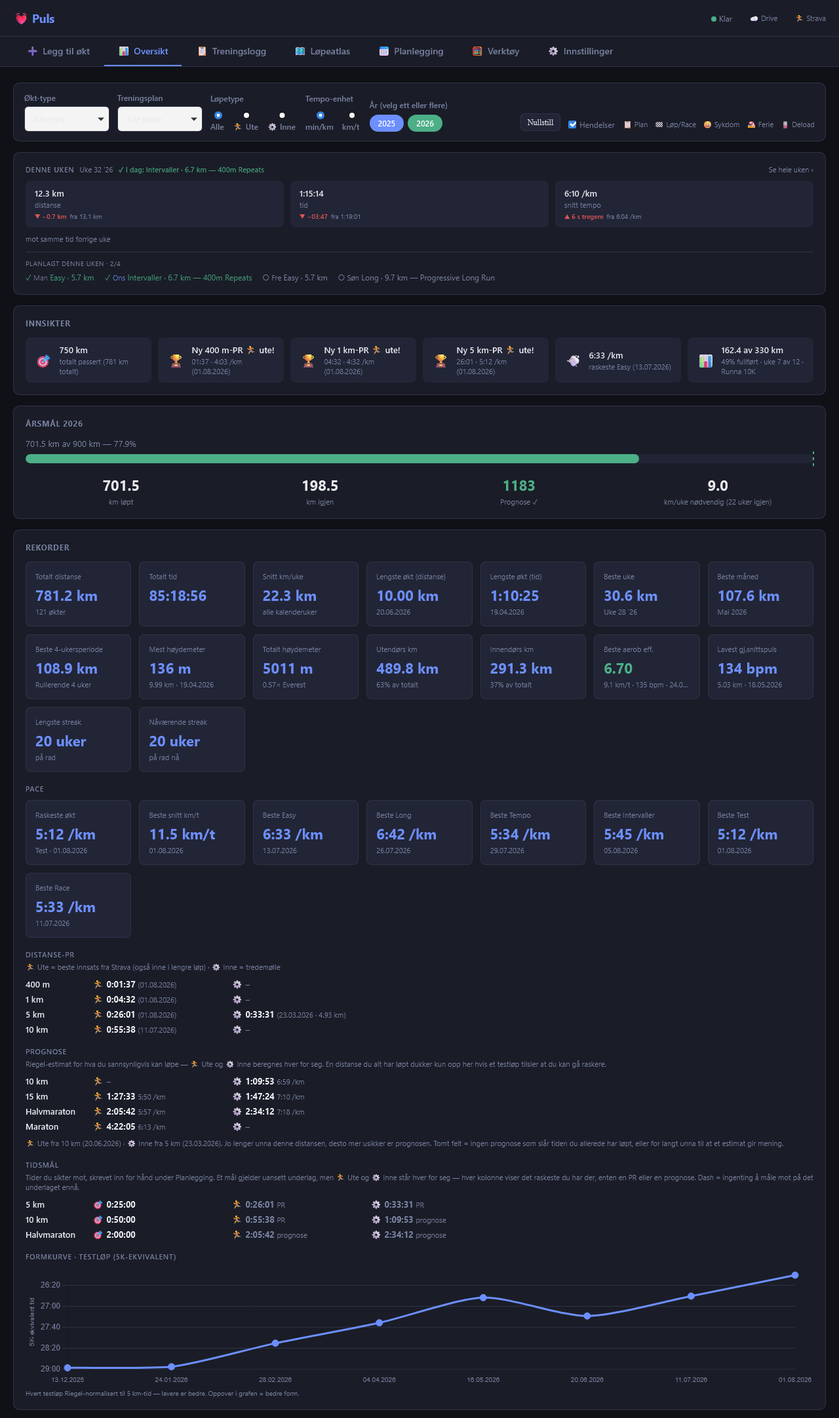
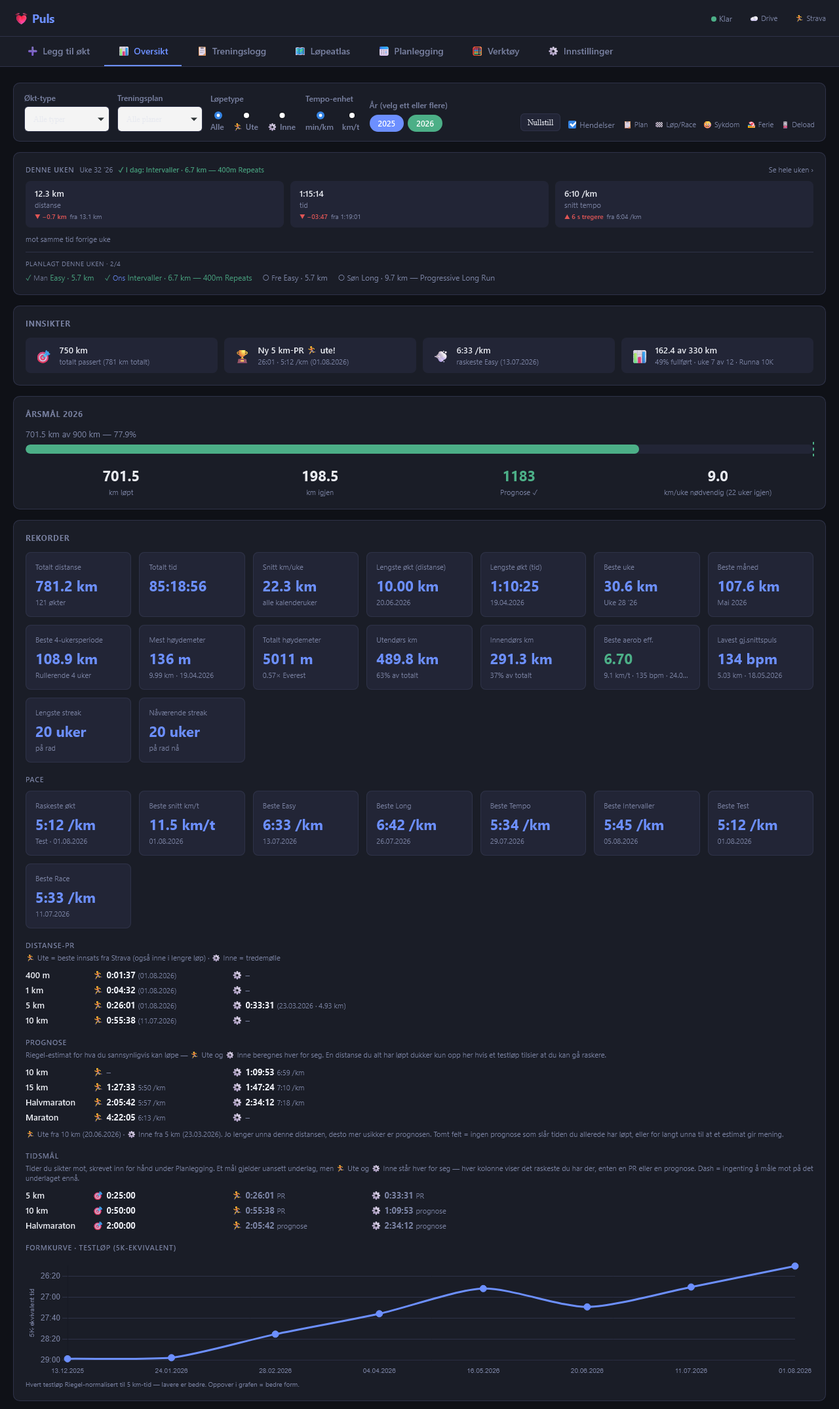
One 5K test set three PRs and took half the Innsikter card
Three fixes to what Innsikter and Treningsblokker surface, all found from
real use on the dashboard.

The PR insight is floored at 5 km. 400 m and 1 km are stretches the
analyser extracts from INSIDE a longer run, not efforts you set out to
make: the 27:03 5K on 11.09 set three PRs at once, each taking its own
priority-5 slot, so one session held half a six-slot card and displaced
everything below it — invisibly, because a crowded card looks exactly
like a quiet week. Both distances keep their permanent place in
Rekorder's Distanse-PR table. Same distinction the app already draws at
km >= 1 for goals and prognoses, raised to where a PR means a race you
could enter.

A block about to start now counts down over its last 14 days, mirroring
the race countdown. It retires by construction rather than by a
daysUntil === 0 branch: once started the block is `current`, so the
plan-progress card takes over. That is deliberate — a "today" surface
that never notices the day arrived is the bug the race card had until
this morning.

The Kommende block card is clickable. Treningsblokker says "Klikk for
detaljer" and of its three row types only the hero and the past cards
honoured it, so the sole route to a not-yet-started block's plan was
Planlegging -> Planlagte økter -> Andre blokker. openBlock already
handled a future block correctly (6d186d3); nothing was wired to it.

Also: cachedBlocks is now computed BEFORE renderInsights, not after. The
[…]

diff --git a/puls.html b/puls.html
@@ -7283,6 +7283,28 @@ function renderInsights(sessions) {
     }
   }
 
+  // A training block about to start. Kept next to the race countdown because it is the same shape,
+  // and it retires the same way BY CONSTRUCTION rather than by a special case: the moment
+  // `startDate <= today` the block stops matching this filter and becomes `current`, so the
+  // plan-progress card below takes over. That is deliberately not a `daysUntil === 0` branch —
+  // a "today" surface that never notices the day has arrived is the exact bug we fixed in the race
+  // card today, and the way not to write it again is to have no such branch to get wrong.
+  //
+  // 14 days, not the race's 30: a block three weeks out is trivia, and the Treningsblokker card
+  // already carries it from any distance. Priority 4, not 5 — a block starting is a heads-up, not
+  // a deadline, and it must not outrank a race or a fresh PR competing for the same six slots.
+  const nextBlock = cachedBlocks.filter(b => b.startDate > today)
+    .sort((a, b) => a.startDate.localeCompare(b.startDate))[0];
+  if (nextBlock) {
+    const daysToBlock = Math.round((new Date(nextBlock.startDate) - new Date(today)) / 86400000);
+    if (daysToBlock <= 14) {
+      const blockTarget = nextBlock.targetTotalKm ? ` · mål ${nextBlock.targetTotalKm} km` : '';
+      candidates.push({ icon: '🗓', val: `${daysToBlock} ${daysToBlock === 1 ? 'dag' : 'dager'}`,
+        sub: `til ${nextBlock.title} starter (${fmtDate(nextBlock.startDate)}) · ${nextBlock.weeks} uker${blockTarget}`,
+        priority: 4 });
+    }
+  }
+
   // Streak at risk: streak ≥3 weeks alive, but no run yet this week and the week is almost over.
   // currentStreak in computeRecords reads 0 for a runless current week, so count from LAST week here.
   // Suppressed during a registered Syk/Ferie week: Treningsrytme bridges that week (the streak isn't
@@ -7335,8 +7357,26 @@ function renderInsights(sessions) {
   // the venue — Ute (GPS) and Inne (belt) are separate populations (DATA.md "Belt vs GPS").
   // Every source is dated now, so the `!e.d` guard below is belt-and-braces rather than the
   // load-bearing filter it was when hand-typed (dateless) entries could reach here.
+  //
+  // ⚠ Floored at 5 km, and the floor is the point. 400 m and 1 km are SEGMENTS the analyser
+  // extracts from inside a longer run, not efforts you set out to make: his 27:03 5K on 11.09 set
+  // three PRs at once (400 m, 1 km, 5 km inne), each taking its own priority-5 slot. One piece of
+  // news held half the card and displaced everything at priority 4 and below — and the card gives
+  // no sign that happened, so a crowded week is indistinguishable from a quiet one.
+  //
+  // Both distances keep their place in Rekorder's Distanse-PR table, which is where a permanent
+  // record belongs; Innsikter is for what is news. Same distinction the app already draws twice at
+  // `km >= 1` (Settings.goalDists, computePerfCurve) — *"400 m is a segment inside a longer run,
+  // not something you train six months toward"* — raised to where a PR means a race you could
+  // actually enter. The cost, accepted: a deliberate 1 km time trial passes unannounced here.
+  //
+  // ⚠ This floor is NOT the same constant as those two and must not be collapsed into them: they
+  // gate what you can set a GOAL for, this gates what is worth a headline. They happen to be
+  // mirrored by hand today, and the register already warns nothing enforces that.
+  const INSIGHT_PR_MIN_KM = 5;
   const fortnightAgo = localISODaysAgo(14);
   computeDistancePRs(qualitySessions).forEach(r => {
+    if (r.km < INSIGHT_PR_MIN_KM) return;
     [['🏃 ute', r.ute], ['⚙ inne', r.inne]].forEach(([venue, e]) => {
       if (!e || !e.d || e.d < fortnightAgo) return;
       candidates.push({ icon: '🏆', val: `Ny ${r.label}-PR ${venue}!`,
@@ -7678,7 +7718,15 @@ function renderBlocks() {
     upcomingHtml = upcoming.map(b => {
       const daysUntil = Math.round((new Date(b.startDate) - new Date(today)) / 86400000);
       const startsIn = daysUntil === 1 ? 'starter i morgen' : `starter om ${daysUntil} dager`;
-      return `<div style="background:var(--surface2);border:1px dashed var(--border);border-radius:10px;padding:14px 20px;margin-bottom:16px">
+      // Clickable like the hero and past cards. It was the one row of the three that wasn't, under a
+      // subtitle that says "Klikk for detaljer" — so the card promised something it only kept twice
+      // out of three times, and the only way to a not-yet-started block's plan was Planlegging →
+      // Planlagte økter → Andre blokker. `DetailPanel.openBlock` already handles a future block
+      // correctly (6d186d3 taught it to suppress the stats row, Konsistens and Sonefordeling); the
+      // panel was ready and nothing had been wired to it from here.
+      const safeBlock = toSafeAttr(b);
+      return `<div style="background:var(--surface2);border:1px dashed var(--border);border-radius:10px;padding:14px 20px;margin-bottom:16px;cursor:pointer"
+           onclick="DetailPanel.openBlock(JSON.parse(this.dataset.block))" data-block="${safeBlock}">
         <div style="display:flex;align-items:center;gap:8px">
           <span style="font-size:14px;font-weight:600;flex:1">${escapeHtml(b.title)}</span>
           <span style="font-size:10px;font-weight:600;padding:2px 8px;border-radius:20px;background:rgba(108,143,255,.2);color:var(--accent)">Kommende</span>
@@ -9581,10 +9629,15 @@ function renderDashboard() {
       }).join('')}</tbody>
     </table>`;
 
+  // Blocks are computed BEFORE renderInsights, not after: the block-countdown insight reads
+  // `cachedBlocks`, and with the old order it would have read the PREVIOUS render's value —
+  // empty on first paint, one render stale forever after. A cache filled after its first
+  // consumer runs is the kind of bug that looks like a caching subtlety and is really just
+  // line order. `computeBlocks` is pure, so moving it up changes nothing else.
+  cachedBlocks = computeBlocks(Store.data.sessions);
   renderInsights(sessions);
   renderConsistency(sessions);
   renderEventLegend();
-  cachedBlocks = computeBlocks(Store.data.sessions);
   renderBlocks();
 
   // Shoe bar chart

diff --git a/tests/test_insights.py b/tests/test_insights.py
@@ -317,6 +317,116 @@ with sync_playwright() as p:
     check('a finished race hands over to the next', 'Oslo 10K' in handover, True)
     check('...and stops wishing luck for the finished one', 'lykke til' in handover, False)
 
+    # ── The PR floor: only a distance you could race earns a headline (2026-09-11) ─────────────
+    #
+    # His 27:03 5K set THREE PRs at once — 400 m, 1 km and 5 km inne — because the analyser extracts
+    # best efforts from inside a longer run. Each took its own priority-5 slot, so one session held
+    # half the card and displaced everything at priority 4 and below. The floor is `r.km >= 5`.
+    #
+    # ⚠ THE VACUITY TRAP, and it is the whole reason for the card-count control below. The card is
+    # capped at six. A fixture with enough candidates makes "400 m is absent" pass because 400 m was
+    # CROWDED OUT, not because the floor excluded it — and the check would then survive the floor
+    # being deleted. The fixture is kept deliberately thin (three recent runs, low total km, nothing
+    # in the 8-35 day baseline) so no other generator fires, and the control asserts the card is not
+    # full. Absence in a card with free slots can only be the floor.
+    print("== PR insight: floored at 5 km ==")
+
+    def prs(top3, sessions=None):
+        """Boot with a bestEffortsTop3 map and return (panel text, number of cards)."""
+        runs = sessions if sessions is not None else [
+            session(days_ago(n), 150, distanse=6.0) for n in (0, 2, 4)]
+        data = {'sessions': runs, 'shoes': [], 'shoeDefaults': {}, 'goals': {}, 'events': [],
+                'plannedSessions': [], 'customSessionTypes': [], 'customPlans': [],
+                'bestEffortsTop3': top3,
+                'consistencySettings': {'kmThreshold': 15, 'runThreshold': 2},
+                'settings': {'maxHR': 195, 'zones': []}, 'lastUpdated': ''}
+        pg.goto(APP)
+        pg.evaluate("d => localStorage.setItem('lpl_cache', JSON.stringify(d))", data)
+        pg.goto(APP)
+        pg.wait_for_timeout(500)
+        pg.evaluate("() => switchTab('dash')")
+        pg.wait_for_timeout(400)
+        # ⚠ SCOPED to #insightCard. A bare '.insight-item' also matches the four stats in the
+        # "Denne uken" strip, which reuses the class — counting those made the card look full
+        # (8 items) when Innsikter held four, and the control below would have failed forever
+        # for a reason that had nothing to do with the floor.
+        n = len(pg.query_selector_all('#insightCard .insight-item'))
+        return " ".join(pg.inner_text('#insightCard').split()), n
+
+    FRESH = days_ago(2)
+    # Every distance fresh on the same day, exactly like a test race that sets a cascade of them.
+    # `half` is in here for a reason — see the floor-not-whitelist check below.
+    txt, ncards = prs({'400m': [{'t': 100, 'd': FRESH}], '1k': [{'t': 282, 'd': FRESH}],
+                       '5k': [{'t': 1623, 'd': FRESH}], '10k': [{'t': 3705, 'd': FRESH}],
+                       'half': [{'t': 8100, 'd': FRESH}]})
+    # POSITIVE CONTROL FIRST: without this, every "absent" check below could be reading an empty card.
+    check('control: the 5 km PR fires', 'Ny 5 km-PR' in txt, True)
+    check('control: the 10 km PR fires', 'Ny 10 km-PR' in txt, True)
+    # THE control that makes the two absences mean something.
+    check('control: card is NOT full, so absence cannot be crowding', ncards < 6, True)
+    check('400 m does not take a slot', '400 m-PR' in txt, False)
+    check('1 km does not take a slot', '1 km-PR' in txt, False)
+    # A floor, not a hand-written whitelist of {5k, 10k}: mutating the guard to an equality test
+    # against those two keys must fail here.
+    check('everything above the floor still fires', 'Halvmaraton-PR' in txt, True)
+    # The floor must not have quietly replaced the 14-day recency gate.
+    stale, _ = prs({'5k': [{'t': 1623, 'd': days_ago(15)}]})
+    check('a 15-day-old 5 km PR still ages out', 'Ny 5 km-PR' in stale, False)
+
+    # ── A training block about to start (2026-09-11) ───────────────────────────────────────────
+    #
+    # ⚠ This section also pins a LINE ORDER, and that is not obvious from reading it. The generator
+    # reads `cachedBlocks`, which renderDashboard used to fill AFTER renderInsights ran — so on a
+    # fresh page (which is exactly what every fixture here boots) it was `[]` and the card could
+    # never appear at all. Move the assignment back below renderInsights and the first check fails.
+    print("== a training block about to start ==")
+
+    def blocks(plan_evts):
+        data = {'sessions': [session(days_ago(n), 150, distanse=6.0) for n in (0, 2, 4)],
+                'shoes': [], 'shoeDefaults': {}, 'goals': {}, 'events': plan_evts,
+                'plannedSessions': [], 'customSessionTypes': [], 'customPlans': [],
+                'consistencySettings': {'kmThreshold': 15, 'runThreshold': 2},
+                'settings': {'maxHR': 195, 'zones': []}, 'lastUpdated': ''}
+        pg.goto(APP)
+        pg.evaluate("d => localStorage.setItem('lpl_cache', JSON.stringify(d))", data)
+        pg.goto(APP)
+        pg.wait_for_timeout(500)
+        pg.evaluate("() => switchTab('dash')")
+        pg.wait_for_timeout(400)
+        return " ".join(pg.inner_text('#insightCard').split())
+
+    def plan(title, starts_in, weeks=12, **extra):
+        e = {'id': 'pl' + title, 'type': 'plan', 'title': title,
+             'date': days_ago(-starts_in), 'endDate': days_ago(-starts_in - weeks * 7)}
+        e.update(extra)
+        return e
+
+    soon = blocks([plan('Runna 10K #2', 3, targetTotalKm=300)])
+    check('a block 3 days out counts down', '3 dager' in soon, True)
+    check('...and names the block', 'til Runna 10K #2 starter' in soon, True)
+    check('...and carries its span', '12 uker' in soon, True)
+    check('...and its target when set', 'mål 300 km' in soon, True)
+    check('singular on the last day', '1 dag ' in blocks([plan('Runna 10K #2', 1)]), True)
+
+    # Gating: 14 days, the same shape as the race countdown's 30. A block further out is trivia,
+    # and the Treningsblokker card carries it from any distance anyway.
+    check('day 14 is inside the window',
+          'starter' in blocks([plan('Runna 10K #2', 14)]), True)
+    check('day 15 is outside it',
+          'starter' in blocks([plan('Runna 10K #2', 15)]), False)
+
+    # It retires BY CONSTRUCTION: once started, the block is `current` and no longer matches the
+    # filter. This is the check that would catch someone "fixing" it with a daysUntil === 0 branch —
+    # the exact bug shape the race card had until today.
+    # Carries a target so the plan-progress card can fire — that card is the control below, and
+    # `activePlan` ignores a plan with neither targetTotalKm nor targetKmPerWeek set.
+    started = blocks([plan('Runna 10K #2', -2, targetTotalKm=300)])
+    check('a block already underway does not count down', 'starter' in started, False)
+    # ...and the control proving that fixture reaches the generator at all, so the line above is not
+    # passing because nothing rendered.
+    check('control: the started block still drives plan progress',
+          'Runna 10K #2' in started, True)
+
     if errs:
         print('  PAGE ERRORS:', errs)
         failed += 1

diff --git a/tests/test_blocks.py b/tests/test_blocks.py
@@ -397,6 +397,68 @@ with sync_playwright() as pw:
     check("...claims no missing zone data", "SONEFORDELING" in fut, False)
     check("...and no 'ingen sonedata' orphan", "Ingen sonedata" in fut, False)
 
+    # ── The Kommende card is clickable from the dashboard (2026-09-11) ─────────────────────
+    #
+    # Treningsblokker says «Generert fra Plan-hendelser. Klikk for detaljer.» — and of its three
+    # row types the hero and the past cards honoured that while the Kommende card had neither an
+    # onclick nor a cursor. The only route to a not-yet-started block's plan was Planlegging →
+    # Planlagte økter → Andre blokker. `openBlock` had already been taught to handle a future block
+    # (the section above); nothing on the dashboard was wired to it.
+    #
+    # ⚠ The fixture carries a CURRENT block as well as a future one, and that is load-bearing: with
+    # only one card on the dashboard, "clicking opened a panel about the future block" would pass
+    # even if the click had landed on the wrong element, because there is no other element to hit.
+    print("== the Kommende card opens its drill-down ==")
+
+    pg.goto(APP)
+    pg.evaluate("""() => {
+      const run = (dato, distanse) => ({ id:dato, dato, uke:'2026-30', oktnavn:'Tur',
+        okttype:'Easy', treningsplan:'Runna', løpetype:'utendors', distanse,
+        varighet: distanse*360, tempo:360, soner:[0,600,600,0,0] });
+      localStorage.setItem('lpl_cache', JSON.stringify({
+        sessions: [run('2026-07-20',6), run('2026-08-11',6), run('2026-08-13',8)],
+        shoes: [], goals: {}, plannedSessions: [], settings: { zones: [] },
+        events: [
+          { id:'pNow',  type:'plan', title:'Runna 5K',      date:'2026-07-06', endDate:'2026-09-13' },
+          { id:'pNext', type:'plan', title:'Runna 10K nr2', date:'2026-09-14', endDate:'2026-11-19' },
+        ],
+        lastUpdated: '' }));
+    }""")
+    pg.goto(APP)
+    pg.evaluate("() => switchTab('dash')")
+    pg.wait_for_timeout(500)
+
+    kommende = pg.locator("#blocksCard div[data-block]").filter(has_text="Kommende")
+    paagaar  = pg.locator("#blocksCard div[data-block]").filter(has_text="Pågår")
+    # Controls first: both rows exist and nothing is open yet, so the assertions after the click
+    # cannot be reading a panel that was already there.
+    check("control: both a Kommende and a Pågår card are on the dashboard",
+          (kommende.count(), paagaar.count()), (1, 1))
+    check("control: the drill-down starts closed",
+          pg.eval_on_selector("#detailModal", "e => e.classList.contains('open')"), False)
+    # ⚠ Guarded rather than clicked blind. Reverting the fix removes `data-block` along with the
+    # onclick, so the locator matches nothing and `.first.click()` throws — which ABORTS the suite
+    # after the first failure instead of reporting the three that follow. Falsification showed that
+    # directly: predicted 4 failures, got 1 and a crash. A check that can only fail by exploding
+    # tells you less than one that fails.
+    have = kommende.count() > 0
+    check("the Kommende card advertises itself as clickable",
+          have and "pointer" in (kommende.first.get_attribute("style") or ""), True)
+
+    if have:
+        kommende.first.click()
+        pg.wait_for_timeout(300)
+    check("clicking it opens the drill-down",
+          pg.eval_on_selector("#detailModal", "e => e.classList.contains('open')"), True)
+    body = " ".join(pg.inner_text("#detailBody").split())
+    title = pg.inner_text("#detailTitle") if have else ""
+    # The discriminator: it opened the FUTURE block, not the live one sitting right below it.
+    check("...for the future block", "Runna 10K nr2" in title, True)
+    check("...not the current one", "Runna 5K" in title, False)
+    check("...and the panel still makes no claims about it", "KONSISTENS" in body, False)
+    pg.evaluate("() => DetailPanel.close()")
+    pg.wait_for_timeout(150)
+
     check("no page errors", errs, [])
     b.close()
 

diff --git a/README.md b/README.md
@@ -48,7 +48,7 @@ En selvstendig løpelogg i én enkelt fil — logg en økt på sekunder og følg
   - **Prognose** — Riegel-framskrivninger for distansene du *ikke* har løpt ennå, i de samme to kolonnene og **forankret hver for seg per sted**: 🏃 Ute svarer på «hva kunne jeg løpt på tid?», ⚙ Inne på «hva kunne jeg klart på beltet?». Hver av dem foretrekker en maksimal innsats — en Test eller et Race på det stedet — og faller tilbake på din målte beste der. Innekolonnen gjør nytte for seg fordi omtrent halve året er hvert løp innendørs, og en framskrivning basert bare på utendørs ville stått fastfrosset på forrige sesongs innsatser hele vinteren mens formen din faktisk flyttet seg. Inne stopper ved halvmaraton; et maratonestimat på tredemølle har ingen nytte. Hver kolonne navngir ankeret sitt og datoen én gang, så et utdatert anker er åpenbart med ett blikk, og seksjonen skjules helt når det ikke er noe å framskrive
   - **🎯 Mål** — tidsmålene du setter under Planlegging, hvert på en rad ved siden av der du faktisk er, slik at «der jeg vil være» står inntil «der jeg er». Bare én rad per mål, så seksjonen holder seg kort. Selve målet dekker begge steder — en ambisjon er ikke en tredemølleinnstilling — men det som står ved siden av er målinger, så raden beholder de **samme to kolonnene 🏃 Ute / ⚙ Inne** som tabellene over, hver med det raskeste det stedet har, og med beskjed om det er en **PR** eller en **prognose**. Et sted uten noe ennå viser `–`. Ingenting utledes fra et mål — ingen nedtelling, intet gap, ingen dom; seksjonen er helt skjult til du setter ett
   - **Formkurve** — hver Test/Race Riegel-normalisert til en 5K-ekvivalent tid og tegnet som én formkurve over tid, slik at hver ny test forlenger kurven i stedet for å leve som en isolert PR. Opp = bedre form; dukker opp når det finnes 2+ tester
-- **Innsikter** — **først i rutenettet**, rett under Denne uken, fordi det er det eneste kortet som bærer *frister*: en nedtelling til et løp, en streak som er i ferd med å ryke, et «⚠ Belastning ×1,6 — ro ned». Slikt er verdt noe i dag og ingenting neste uke, mens alt under er oppslagsverk (rekorder, prognoser, mål) du går til med vilje. Forskjellen merkes mest på mobil, der alt stables og Rekorder-kortet er høyt nok til å dytte en advarsel langt under skjermkanten. En pott med kandidater rangert etter prioritet og hvor ferske de er, opptil 6 vises — **færre når færre er verdt å vise**. Hvert kort må være en faktisk *hendelse*, aldri fyllstoff, så en tynn rad betyr at ingenting bemerkelsesverdig skjedde, ikke at noe ble trengt ut. **Belastnings- og volumkortene sier fra når en periode med redusert løping (deload, taper, sykdom, ferie) ligger inne i det de sammenligner** — og navngir hvilken av de to periodene den ligger i, siden en rolig uke i grunnlaget løfter tallet mens en i den ferske perioden demper det. Retningen oppgis bare når *én* av periodene er berørt; ligger det redusert løping i begge, drar de hver sin vei og kortet sier hva som ligger hvor i stedet for å gjette. Belastningskortet sier «stor belastningsøkning», ikke «høy skaderisiko» — det er lastforholdet som måles, ikke en skade som varsles.
+- **Innsikter** — **først i rutenettet**, rett under Denne uken, fordi det er det eneste kortet som bærer *frister*: en nedtelling til et løp, en streak som er i ferd med å ryke, et «⚠ Belastning ×1,6 — ro ned». Slikt er verdt noe i dag og ingenting neste uke, mens alt under er oppslagsverk (rekorder, prognoser, mål) du går til med vilje. Forskjellen merkes mest på mobil, der alt stables og Rekorder-kortet er høyt nok til å dytte en advarsel langt under skjermkanten. En pott med kandidater rangert etter prioritet og hvor ferske de er, opptil 6 vises — **færre når færre er verdt å vise**. Hvert kort må være en faktisk *hendelse*, aldri fyllstoff, så en tynn rad betyr at ingenting bemerkelsesverdig skjedde, ikke at noe ble trengt ut. **Belastnings- og volumkortene sier fra når en periode med redusert løping (deload, taper, sykdom, ferie) ligger inne i det de sammenligner** — og navngir hvilken av de to periodene den ligger i, siden en rolig uke i grunnlaget løfter tallet mens en i den ferske perioden demper det. Retningen oppgis bare når *én* av periodene er berørt; ligger det redusert løping i begge, drar de hver sin vei og kortet sier hva som ligger hvor i stedet for å gjette. Belastningskortet sier «stor belastningsøkning», ikke «høy skaderisiko» — det er lastforholdet som måles, ikke en skade som varsles. **En fersk PR gir et eget kort først fra 5 km og oppover.** 400 m og 1 km er strekninger analysen finner *inne i* et lengre løp, ikke innsatser du la opp til: én 5K-test satte tre PR-er på én gang og tok halve kortet, slik at alt med lavere prioritet ble trengt ut uten at kortet viste at det skjedde. Begge blir liggende i Distanse-PR-tabellen under Rekorder, som er der en varig rekord hører hjemme — Innsikter er for det som er nyheter. **En treningsblokk som snart starter teller ned de siste 14 dagene**, i samme form som nedtellingen til et løp, og forsvinner av seg selv når blokken er i gang: da er den den aktive blokken, og framdriftskortet overtar plassen.
   - **Milepæler og PR-er** — km-milepæler (en passert milepæl bare de første 30 dagene, deretter er den en statistikk og Rekorder eier den; en kommende så snart den er innen rekkevidde, målt mot **volumet ditt de siste 4 ukene**, så «nær» betyr omtrent en måned unna med den løpingen du gjør nå, og forfremmes ved halvparten av det) · **fersk distanse-PR** (14 dager, med stedet navngitt — «Ny 5 km-PR 🏃 ute!» — og leser den samme utregningen som Rekorder-kortet gjør, så de to kan aldri være uenige) · raskeste Easy-løp (30 dager, deretter bærer Rekorder-ruten den permanent)
   - **Trender** — Easy-tempo og **Easy-puls** (siste 8 mot foregående 8 uker) · **volum** (siste 4 mot foregående 4) · **RPE** (Easy-snitt, terskel på 0,5 poeng; viser et eget *utmattelsesflagg* når tempo og puls holder seg stabile mens RPE likevel klatrer — et tidlig tegn på overbelastning) · **sone 2-treff på Easy-løp** (andelen av **de siste 8 ukenes** Runna Easy-løp der snittpulsen landet i sone 2 — et rullerende vindu, så bedre kontroll flytter faktisk tallet; skjules under 3 nylige løp i stedet for å strekke seg bakover for å fylle kortet)
   - **Varsler** — **belastningsøkning** (ACWR-lett: siste 7 dagers sonevektede belastning mot de foregående 28 dagenes ukesnitt — varsler over ×1,3, haster over ×1,5, taus når belastningen er fornuftig) · **pensjonering av sko** (utløses når slitasjelinjen på Sko-kortet blir **rød ved 90 %** av skoens km-grense, og haster forbi 100 % — de samme `shoeWear`-tersklene som linjen og markeringene i Sko oversikt bruker, så én sko blir aldri beskrevet på tre måter samtidig. En sko **uten grense sier ingenting i det hele tatt**; den ble tidligere målt mot en skjult 400 km som ikke sto noe sted) · **tid siden langtur** · dager siden forrige løp · **maks puls ser for lav ut** — flagges når logget topppuls har passert makspulsen du har satt, siden hver sonegrense utledes fra det tallet, og et utdatert tall gir stille feil score på hver eneste økt. Krever **to** overskridelser gjennom hele historikken (én måling er en sensorglipp, to er bevis) med minst **3 slag** klaring, og én av dem innenfor 12 uker, så den eldes ut i stedet for å mase; løp merket **Avvik** kan ikke drive den, som er nettopp det det merket er til for
@@ -56,7 +56,7 @@ En selvstendig løpelogg i én enkelt fil — logg en økt på sekunder og følg
 ![Innsikter, Treningsrytme, Treningsblokker, Treningsstatus (PMC) og Treningsbelastning](screenshots/charts.png)
 
 - **Treningsrytme** — en score fra 0–100 over de siste 12 ukene (andel aktive uker, uker over volumgrensen, streak-bonus); oppdelingslinjer viser hva hver del bidrar med (maks 50/30/20 poeng); grensene for km og antall løp settes i Innstillinger; egen trendgraf for aktive uker per måned; **justert for tilgjengelighet**: uker uten løp som dekkes av en Sykdom/Ferie-hendelse teller ikke mot scoren («10 av 10 tilgjengelige uker»), og streaken bygger bro over dem — løper du i en Ferie-uke, teller det fortsatt
-- **Treningsblokker** — treningsblokk-kort som genereres automatisk fra Plan-hendelser; den aktive blokken er et hovedkort i full bredde med framdriftslinje for treningsrytme og en minigraf over km per uke; tidligere blokker vises som kompakte kort under. Klikk et kort for en fyldig detaljvisning: ukesvise framdriftslinjer (hver rad kan klikkes → ukedetaljer; merker for Toppuke / Lengste løp / Raskest), automatisk genererte høydepunkter (beste uke, lengste løp, streak, tempotrend), oppdeling av treningsrytmen, fordeling av pulssoner (stablet linje med oppsummering av lav/høy intensitet), sammenlikning mot forrige blokk, og hele løpslisten. For en **blokk som pågår** måles km/uke, løp/uke og treningsrytme over ukene som **har gått så langt** — ikke over hele den planlagte perioden — slik at en blokk som nettopp har startet ikke leses som lavt volum eller «ujevn» for uker som ennå ikke har skjedd (linjen for totale km mot mål holder seg ærlig på sin reelle prosent). **Sammenlikningen mot forrige blokk vises først når blokken er fullført** — en blokk som fortsatt pågår har bare deler av volumet sitt, og blokker kan ha ulike mål (en 5K-plan mot en 10K-plan), så en tidlig sammenlikning ville vært misvisende hard
+- **Treningsblokker** — treningsblokk-kort som genereres automatisk fra Plan-hendelser; den aktive blokken er et hovedkort i full bredde med framdriftslinje for treningsrytme og en minigraf over km per uke; tidligere blokker vises som kompakte kort under. En blokk som ennå ikke har startet ligger øverst med merket **Kommende** og hvor mange dager det er igjen — og kan klikkes som alle de andre, så planen er lesbar før første økt. Klikk et kort for en fyldig detaljvisning: ukesvise framdriftslinjer (hver rad kan klikkes → ukedetaljer; merker for Toppuke / Lengste løp / Raskest), automatisk genererte høydepunkter (beste uke, lengste løp, streak, tempotrend), oppdeling av treningsrytmen, fordeling av pulssoner (stablet linje med oppsummering av lav/høy intensitet), sammenlikning mot forrige blokk, og hele løpslisten. For en **blokk som pågår** måles km/uke, løp/uke og treningsrytme over ukene som **har gått så langt** — ikke over hele den planlagte perioden — slik at en blokk som nettopp har startet ikke leses som lavt volum eller «ujevn» for uker som ennå ikke har skjedd (linjen for totale km mot mål holder seg ærlig på sin reelle prosent). **Sammenlikningen mot forrige blokk vises først når blokken er fullført** — en blokk som fortsatt pågår har bare deler av volumet sitt, og blokker kan ha ulike mål (en 5K-plan mot en 10K-plan), så en tidlig sammenlikning ville vært misvisende hard
 - **Treningsbelastning per uke** — ukentlig treningsbelastning scoret etter soneintensitet (S1=1 … S5=5 poeng/min), fargekodede søyler med rullerende 4-ukers snitt
 - **Treningsstatus (PMC)** — Performance Management Chart: Fitness (CTL, 42 dager), Fatigue (ATL, 7 dager) og Form (TSB = CTL−ATL) over de siste 365 dagene
 - **Ukentlig distanse** — km per uke eller måned (Uke/Måned-bryter); ukesmodus viser siste 26 uker, månedsmodus siste 12 måneder; klikk en søyle for å gå inn i den uken. En **Mål km**-avkrysning legger en stiplet mållinje over søylene — summen av **Mål distanse** på løpene den uken (som Runna-planen forhåndsfyller), så du kan se om ukens distansemål ble nådd uten at det krever en egen graf. Uker uten mål tegnes som et hull, ikke som null. Punktene på linjen farges etter hvordan uken landet — blå over målet, grønn nådd, gul nær, rød under — mens søylene beholder sin ene farge, så en uke uten mål aldri kan forveksles med en som slo målet. Avkrysningen står alltid av når siden lastes — den huskes ikke mellom økter, på samme måte som de andre bryterne i grafene. Den dukker bare opp når det finnes mål, og **bare i ukesmodus**: en måned der bare noen av ukene var planlagt ville summert til et for lavt mål og lest som «langt over plan» når det egentlig er manglende data

diff --git a/README.en.md b/README.en.md
@@ -48,7 +48,7 @@ A self-contained single-file running tracker — log a run in seconds and follow
   - **Prognose** — Riegel projections for the distances you *haven't* run yet, in the same two columns and **anchored separately per venue**: 🏃 Ute answers "what could I race?", ⚙ Inne "what could I do on the belt?". Each prefers a maximal effort — a Test or Race in that venue — and falls back to your measured best there. The indoor column earns its place because roughly half the year every run is indoors, and an outdoor-only projection would sit frozen on last season's efforts all winter while your actual fitness moved. Indoor stops at a half marathon; a treadmill marathon estimate has no use. Each column names its anchor and date once, so a stale anchor is obvious at a glance, and the section hides entirely when there's nothing to project
   - **🎯 Mål** — the target times you set under Planlegging, each on a row beside where you actually are, so "where I want to be" reads next to "where I am". One row per goal only, so the section stays short. The goal itself covers both venues — an ambition isn't a treadmill setting — but what sits beside it are measurements, so it keeps the **same two 🏃 Ute / ⚙ Inne columns** as the tables above, each showing the fastest thing that venue has and saying whether it's a **PR** or a **prognose**. A venue with nothing yet shows `–`. Nothing is derived from a goal — no countdown, no gap, no verdict; the section is hidden entirely until you set one
   - **Formkurve** — every Test/Race Riegel-normalised to a 5K-equivalent time and plotted as one fitness curve over time, so each new test extends the curve instead of living as an isolated PR. Up = fitter; appears once 2+ tests exist
-- **Innsikter** — **first in the grid**, directly under Denne uken, because it's the only card carrying *deadlines*: a race countdown, a streak about to lapse, a "⚠ Belastning ×1,6 — ro ned". Those are worth something today and nothing next week, while everything below is reference (records, projections, goals) you go to deliberately. The difference matters most on a phone, where the grid stacks and the Rekorder card is tall enough to push a warning far below the fold. A pool of candidates ranked by priority and recency, up to 6 shown — **fewer when fewer are worth showing**. Every card has to be an actual *event*, never filler, so a thin row means nothing noteworthy happened rather than that something was crowded out. **The load and volume cards say so when a reduced-running period (deload, taper, illness, holiday) sits inside what they are comparing** — and name which of the two windows it is in, since a quiet week in the baseline lifts the figure while one in the recent window damps it. A direction is only stated when *one* window is affected; with both, they pull opposite ways and the card names what is where rather than guessing. The load card says «stor belastningsøkning», not «høy skaderisiko» — what is measured is a load ratio, not an injury.
+- **Innsikter** — **first in the grid**, directly under Denne uken, because it's the only card carrying *deadlines*: a race countdown, a streak about to lapse, a "⚠ Belastning ×1,6 — ro ned". Those are worth something today and nothing next week, while everything below is reference (records, projections, goals) you go to deliberately. The difference matters most on a phone, where the grid stacks and the Rekorder card is tall enough to push a warning far below the fold. A pool of candidates ranked by priority and recency, up to 6 shown — **fewer when fewer are worth showing**. Every card has to be an actual *event*, never filler, so a thin row means nothing noteworthy happened rather than that something was crowded out. **The load and volume cards say so when a reduced-running period (deload, taper, illness, holiday) sits inside what they are comparing** — and name which of the two windows it is in, since a quiet week in the baseline lifts the figure while one in the recent window damps it. A direction is only stated when *one* window is affected; with both, they pull opposite ways and the card names what is where rather than guessing. The load card says «stor belastningsøkning», not «høy skaderisiko» — what is measured is a load ratio, not an injury. **A fresh PR only earns its own card from 5 km up.** 400 m and 1 km are stretches the analysis finds *inside* a longer run, not efforts you set out to make: a single 5K test set three PRs at once and took half the card, crowding out everything of lower priority without the card showing that it had. Both stay in the Distanse-PR table under Rekorder, where a lasting record belongs — Innsikter is for what is news. **A training block about to start counts down over its last 14 days**, the same shape as the race countdown, and retires by itself once the block is underway: it is then the active block, and the progress card takes the slot.
   - **Milestones & PRs** — km milestones (a passed one for its first 30 days only, after which it's a statistic and Rekorder owns it; an upcoming one once it's within reach, measured against your **last 4 weeks' volume** so "near" means about a month away at your current running, promoted at half that) · **fresh distance-PR** (14 days, naming the venue — "Ny 5 km-PR 🏃 ute!" — and reading the same computation the Rekorder card does, so the two can never disagree) · fastest Easy run (30 days, then Rekorder's tile carries it permanently)
   - **Trends** — Easy pace and **Easy HR** (last 8 vs prior 8 weeks) · **volume** (last 4 vs prior 4) · **RPE** (Easy average, 0.5-point threshold; shows a distinct *fatigue flag* when pace and HR hold steady but RPE still climbs — an early overreaching signal) · **Easy run Zone 2 compliance** (share of the **last 8 weeks'** Runna Easy runs whose avg HR landed in Zone 2 — a rolling window, so improving control actually moves the number; hidden below 3 recent runs rather than reaching back to fill the card)
   - **Warnings** — **ramp rate** (ACWR-lite: last 7 days' zone-weighted load vs the prior 28-day weekly average — warns above ×1.3, urgent above ×1.5, silent when load is sensible) · **shoe retirement** (fires when the Sko card's wear bar turns **red at 90 %** of the shoe's km limit, urgent past 100 % — the same `shoeWear` thresholds the bar and the Sko oversikt marks use, so one shoe is never described three ways at once. A shoe with **no limit set says nothing at all**; it used to be judged against a hidden 400 km that appeared on no screen) · **long-run gap** · days since last run · **max HR looks too low** — flags when logged peak HR has passed your configured maximum, since every zone boundary is derived from that number and a stale one quietly mis-scores every session. Needs **two** exceedances all-time (one reading is a sensor spike, two is evidence) with at least **3 bpm** of headroom, and one of them within 12 weeks so it ages out instead of nagging; runs flagged **Avvik** can't drive it, which is exactly what that flag is for
@@ -56,7 +56,7 @@ A self-contained single-file running tracker — log a run in seconds and follow
 ![Innsikter, Treningsrytme, Treningsblokker, Treningsstatus (PMC) and Treningsbelastning](screenshots/charts.png)
 
 - **Treningsrytme** — consistency score 0–100 over the last 12 weeks (active-week rate, volume threshold weeks, streak bonus); score breakdown bars show contribution of each component (max 50/30/20 pts); configurable km/run-count thresholds in Settings; monthly active-weeks trend chart; **availability-adjusted**: runless weeks covered by a Sykdom/Ferie event don't count against the score ("10 av 10 tilgjengelige uker") and the streak bridges them — running during a Ferie week still counts
-- **Treningsblokker** — auto-generated training block cards from Plan events; active block is a full-width hero card with consistency progress bar and weekly km sparkline; past blocks shown as compact cards below; click any card for a rich drill-down: weekly progression bars (each row clickable → week detail; badges for Toppuke / Lengste løp / Raskest), auto-generated highlights (best week, longest run, streak, pace trend), consistency breakdown, HR zone distribution (stacked bar with low/high intensity summary), comparison vs the previous block, and full run list. For an **in-progress block**, the per-week rate (km/uke), runs/uke, and consistency are measured over the weeks **elapsed so far** — not the full planned span — so a block that just started doesn't read as low-volume or "inconsistent" for weeks that haven't happened yet (the total-km-vs-goal bar stays honest at its true % done). The **previous-block comparison is shown only once the block is completed** — a still-running block has partial volume and blocks can differ in goal (a 5K plan vs a 10K plan), so an early comparison would be misleadingly harsh
+- **Treningsblokker** — auto-generated training block cards from Plan events; active block is a full-width hero card with consistency progress bar and weekly km sparkline; past blocks shown as compact cards below; a block that hasn't started yet sits at the top with a **Kommende** badge and the days remaining, and is clickable like all the others, so the plan is readable before the first session; click any card for a rich drill-down: weekly progression bars (each row clickable → week detail; badges for Toppuke / Lengste løp / Raskest), auto-generated highlights (best week, longest run, streak, pace trend), consistency breakdown, HR zone distribution (stacked bar with low/high intensity summary), comparison vs the previous block, and full run list. For an **in-progress block**, the per-week rate (km/uke), runs/uke, and consistency are measured over the weeks **elapsed so far** — not the full planned span — so a block that just started doesn't read as low-volume or "inconsistent" for weeks that haven't happened yet (the total-km-vs-goal bar stays honest at its true % done). The **previous-block comparison is shown only once the block is completed** — a still-running block has partial volume and blocks can differ in goal (a 5K plan vs a 10K plan), so an early comparison would be misleadingly harsh
 - **Treningsbelastning per uke** — weekly training load scored by zone intensity (Z1=1 … Z5=5 points/min), color-coded bars with 4-week rolling average
 - **Treningsstatus (PMC)** — Performance Management Chart: Fitness (CTL, 42-day), Fatigue (ATL, 7-day), and Form (TSB = CTL−ATL) over the last 365 days
 - **Ukentlig distanse** — km per week or month (Uke/Måned toggle); weekly mode shows last 26 weeks, monthly mode shows last 12 months; click a bar to drill into that week. A **Mål km** checkbox overlays a dashed target line on the bars — the sum of the **Mål distanse** set on that week's runs (which the Runna plan prefills), so you can see whether the week's distance target was met without it needing a chart of its own. Weeks with no target draw a gap, not a zero. The bullets on the line are coloured by how the week landed — blue over target, green reached, amber near, red under — while the bars keep their single colour, so a week with no target can never be mistaken for one that beat it. The checkbox is always off on load — it isn't remembered between sessions, the same as the other in-chart toggles. It appears only when targets exist, and **only in week mode**: a month where only some weeks were planned would sum to an undersized target and read as "way over plan" when it is really missing data
